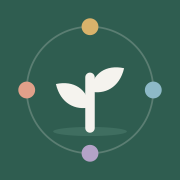
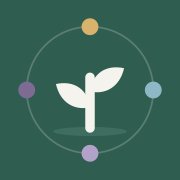
Give each tab its category colour
- Set --teal/--teal2, --spruce-t and --bg from the active tab in render()
  (I dag=Gran, Mad=Birch, Træning=Fjord, Fremgang=Lyng)
- Header uses the tab colour; date text is white for contrast
- Logo's last dot now uses Lyng #7D6B93 to match the Fremgang tab; icon.png regenerated

Changed region(s): [[0.0833, 0.4444, 0.1944, 0.5556]]

diff --git a/index.html b/index.html
@@ -227,9 +227,9 @@
   /* ===== Nordic design (se designguiden i appen) ===== */
   :root { --teal:#2F5D50; --teal2:#2F5D50; --ink:#1E2B2A; --muted:#6E7A77; --line:#E4E0D6; --bg:#F5F3EE; --orange:#B0853F; --red:#B5654A; --track:#EEEBE3; --spruce-t:#E1ECE7; --birch-t:#F4EBDA; --fjord-t:#E2EEF1; --heather-t:#ECE8F1; --clay-t:#F6E7E1; }
   html, body { font-family: -apple-system, "SF Pro Text", "Inter", "Helvetica Neue", Arial, sans-serif; letter-spacing: -.01em; -webkit-font-smoothing: antialiased; }
-  header { background: var(--bg); color: var(--ink); border-radius: 0; padding: calc(10px + env(safe-area-inset-top)) 18px 6px; }
+  header { background: var(--teal); color: #fff; border-radius: 0; padding: calc(10px + env(safe-area-inset-top)) 18px 6px; }
   header .htop { display:flex; align-items:flex-start; justify-content:space-between; }
-  header .date { color: var(--muted); opacity: 1; font-size: 13px; font-weight: 500; }
+  header .date { color: #fff; opacity: .9; font-size: 13px; font-weight: 500; }
   header h1 { font-size: 26px; font-weight: 600; letter-spacing: -.02em; margin-top: 0; }
   header .sub { display:flex; flex-wrap:wrap; gap:6px; margin-top:8px; opacity:1; }
   header .sub span { background:#fff; border:1px solid var(--line); border-radius:99px; padding:4px 10px; font-size:12px; font-weight:500; }
@@ -935,7 +935,15 @@ function header(){
   $('#hdrSub').innerHTML = overlay ? '<span>Gemmes automatisk på telefonen</span>' : `<span>Uge ${w.n} af 4 · ${w.title}</span><span>${work ? '🏢 Kontor' : '🏡 Hjemme'}</span><span>${sch.e} ${sch.title}</span>`;
 }
 
+/* Hver fane har sin kategorifarve (fuld farve til overskrift/aktiv fane, lys tint til siden). Samme farver som logoets prikker. */
+const TAB_COLORS = { today:['#2F5D50','#E1ECE7'], food:['#B0853F','#F4EBDA'], train:['#3F7A8C','#E2EEF1'], week:['#7D6B93','#ECE8F1'] };
+function applyTabColors(){
+  const [c, t] = TAB_COLORS[tab] || TAB_COLORS.today, s = document.documentElement.style;
+  s.setProperty('--teal', c); s.setProperty('--teal2', c); s.setProperty('--spruce-t', t); s.setProperty('--bg', t);
+  document.querySelector('meta[name="theme-color"]').content = c;
+}
 function render(){
+  applyTabColors();
   header();
   document.querySelectorAll('nav button[data-tab]').forEach(b => b.classList.toggle('on', b.dataset.tab === tab));
   trainDay = vDate().getDay();
